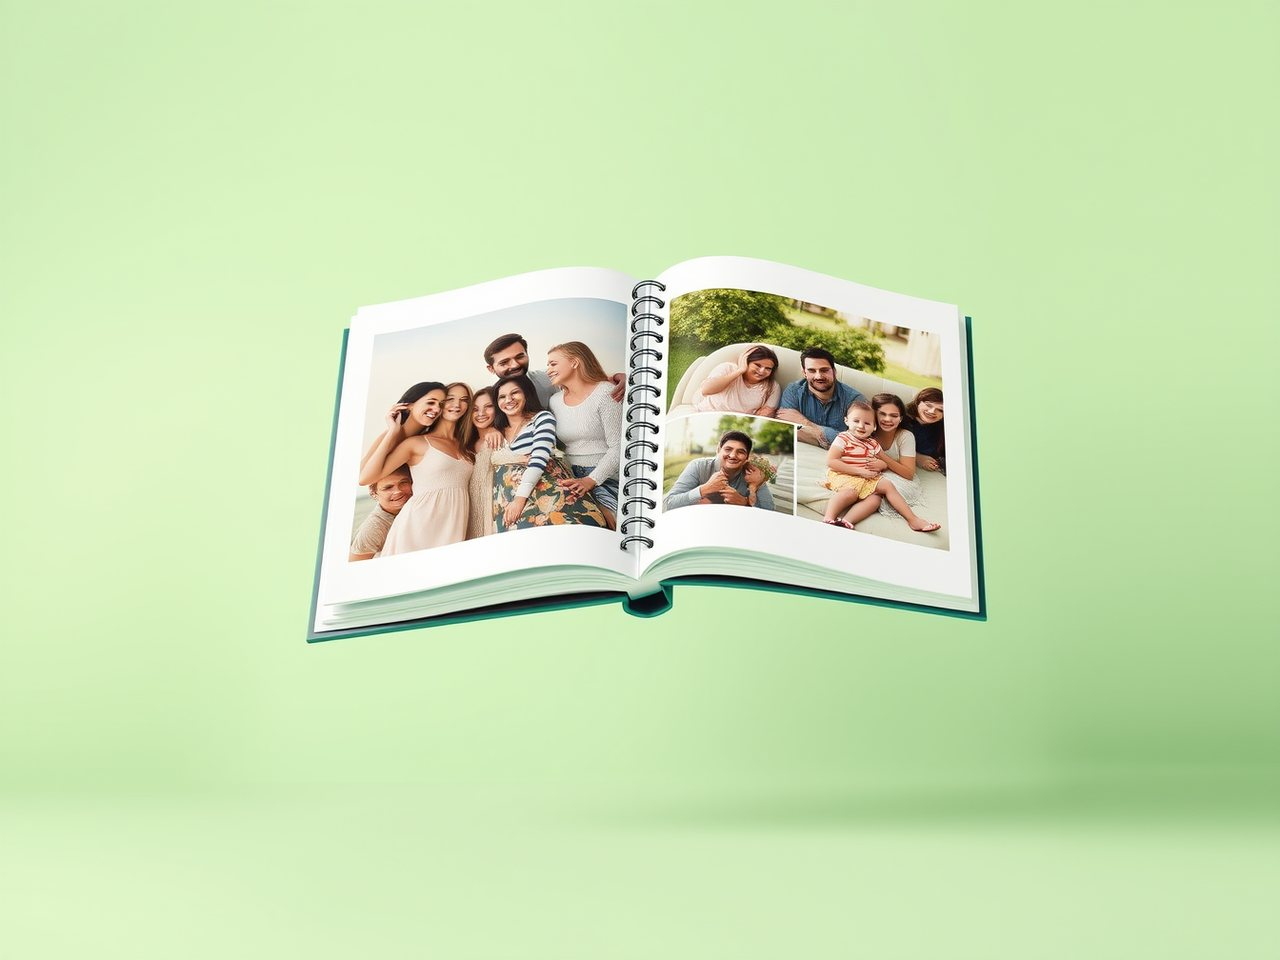
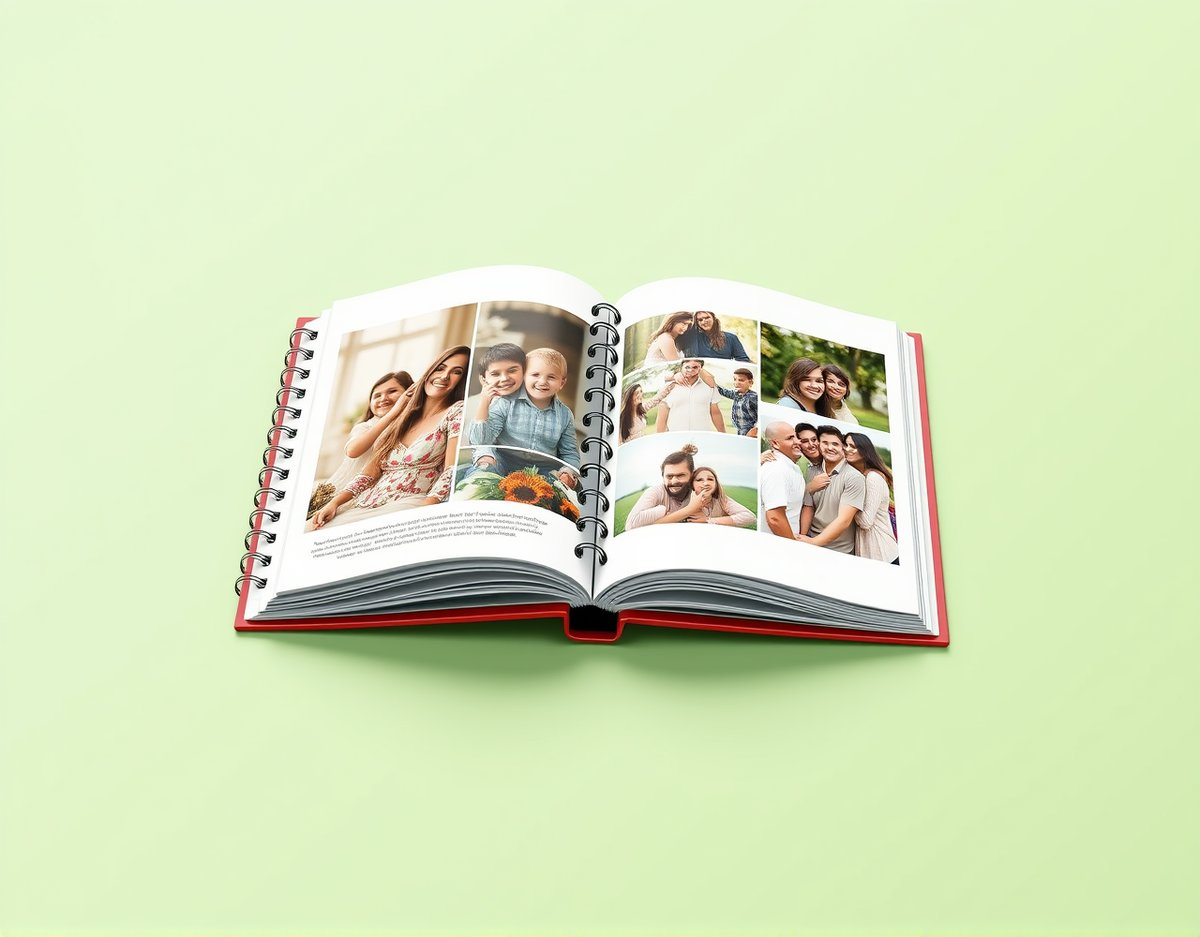
Clone polish: gradient-matched hero product (seamless), 2-line headline, demoted price anchor, single-box wordmark, vivid diagonal gradient

diff --git a/css/style.css b/css/style.css
@@ -16,8 +16,8 @@
   --blue: #005B8E;
   --blue-dark: #00456C;
   --navy: #0E3E59;
-  --grad-a: #A9D6D9;
-  --grad-b: #D8EA80;
+  --grad-a: #9FD0D5;
+  --grad-b: #CFE468;
   --stroke: #8FD0E0;
   --green: #00A651;
   --ease-out: cubic-bezier(0.23, 1, 0.32, 1);
@@ -73,7 +73,7 @@ ul { margin: 0; padding: 0; list-style: none; }
 .util { background: var(--navy); color: #D6E3EA; font-size: 13px; }
 .util-inner { display: flex; align-items: center; gap: 18px; height: 38px; }
 .util-note { margin: 0 auto; text-align: center; color: #B8CBD6; }
-.util-phone { color: #fff; font-weight: 650; margin-left: auto; white-space: nowrap; }
+.util-phone { color: #fff; font-weight: 700; margin-left: auto; white-space: nowrap; }
 .util-phone:hover { text-decoration: underline; }
 .lang-light .seg { color: #9FB6C3; }
 .lang-light .seg + .seg { border-left-color: rgba(255,255,255,.25); }
@@ -98,7 +98,7 @@ ul { margin: 0; padding: 0; list-style: none; }
 .brand-sub { color: var(--ink); font-size: 15px; font-weight: 600; }
 .nav-links { display: flex; gap: 20px; margin-left: 14px; }
 .nav-links a { color: var(--ink-soft); font-size: 14.5px; font-weight: 600; padding: 4px 0; transition: color 200ms ease; }
-.nav-links a:hover { color: var(--blue); }
+.nav-links a:hover { color: var(--blue); text-decoration: underline; text-underline-offset: 5px; }
 .nav-cta { margin-left: auto; }
 .nav-burger { display: none; margin-left: auto; background: none; border: 0; width: 40px; height: 40px; cursor: pointer; flex-direction: column; align-items: center; justify-content: center; gap: 5px; }
 .nav-burger span { width: 20px; height: 2px; background: var(--ink); border-radius: 2px; transition: transform 200ms var(--ease-out), opacity 200ms ease; }
@@ -114,22 +114,23 @@ ul { margin: 0; padding: 0; list-style: none; }
 .hero { padding: 28px 0 0; }
 .hero-banner {
   display: grid; grid-template-columns: 1.25fr 0.75fr; gap: 24px; align-items: center;
-  background: linear-gradient(115deg, var(--grad-a) 0%, var(--grad-b) 100%);
+  background: linear-gradient(120deg, var(--grad-a) 0%, var(--grad-b) 100%);
   border-radius: 22px; padding: 46px 52px 46px 56px; position: relative; overflow: hidden;
 }
 .hero-kicker { font-size: 13px; font-weight: 700; letter-spacing: 0.14em; text-transform: uppercase; color: var(--navy); margin-bottom: 12px; }
-.hero-title { font-size: clamp(38px, 4.6vw, 62px); font-weight: 800; line-height: 1.02; letter-spacing: -0.02em; }
-.hero-title .t-fill { display: block; color: var(--blue); }
-.hero-title .t-outline {
-  display: block; color: var(--blue);
+.hero-title { font-size: clamp(32px, 3.6vw, 50px); font-weight: 780; line-height: 1.06; letter-spacing: -0.03em; }
+.hero-title .t-fill { color: var(--blue); }
+.t-block { display: block; }
+.t-line { display: block; }
+.hero-title .t-outline { color: var(--blue);
   -webkit-text-stroke: 2.5px var(--stroke);
   paint-order: fill; text-shadow: 0 3px 0 rgba(0,60,100,.08);
 }
 .hero-sub { margin-top: 16px; font-size: 16.5px; color: #33505E; max-width: 46ch; font-weight: 500; }
-.hero-cta-row { display: flex; align-items: center; gap: 22px; margin-top: 24px; flex-wrap: wrap; }
-.hero-price { font-weight: 800; font-size: 15px; color: var(--red); }
-.hero-product { margin: 0; }
-.hero-product img { width: 100%; border-radius: 16px; box-shadow: 0 26px 50px -20px rgba(14,62,89,.45); }
+.hero-cta-row { display: flex; flex-direction: column; align-items: flex-start; gap: 6px; margin-top: 24px; }
+.hero-price-under { font-weight: 650; font-size: 14px; color: var(--blue); margin-left: 4px; }
+.hero-product { margin: 0; background: linear-gradient(120deg, #9FD0D5, #CFE468); }
+.hero-product img { width: 100%; display: block; }
 .hero-strip { text-align: center; font-size: 13px; font-weight: 600; color: var(--ink-soft); padding: 13px 0; border-bottom: 1px solid var(--gray-line); }
 
 /* ── sections ────────────────────────────────────────── */

diff --git a/index.html b/index.html
@@ -26,8 +26,7 @@
 <header class="nav" id="nav">
   <div class="wrap nav-inner">
     <a class="brand" href="#top" aria-label="Feven's Prints home">
-      <span class="brand-box">feven's</span>
-      <span class="brand-sub" data-en="prints" data-am="ህትመቶች">prints</span>
+      <span class="brand-box">Feven's Prints</span>
     </a>
     <nav class="nav-links" aria-label="Primary">
       <a href="#range" data-en="Photo books" data-am="የፎቶ መጽሐፍ">Photo books</a>
@@ -65,11 +64,11 @@
     <div class="hero-banner">
       <div class="hero-copy">
         <p class="hero-kicker" data-en="Feven's Prints · Addis Ababa" data-am="የፌቨን ህትመቶች · አዲስ አበባ">Feven's Prints · Addis Ababa</p>
-        <h1 class="hero-title"><span class="t-fill" data-en="Your memories," data-am="ትውስታዎችዎ፣">Your memories,</span><span class="t-outline" data-en="beautifully" data-am="በሚያማምር">beautifully</span><span class="t-fill" data-en="printed." data-am="ህትመት።">printed.</span></h1>
+        <h1 class="hero-title"><span class="t-fill t-block" data-en="Your memories," data-am="ትውስታዎችዎ፣">Your memories,</span><span class="t-line"><span class="t-outline" data-en="beautifully" data-am="በሚያማምር">beautifully</span> <span class="t-fill" data-en="printed." data-am="ህትመት።">printed.</span></span></h1>
         <p class="hero-sub" data-en="Photo books, canvas prints, gifts and more. Premium quality, printed the same day." data-am="የፎቶ መጽሐፍ፣ ካንቫስ፣ ስጦታዎች እና ሌሎችም። ከፍተኛ ጥራት፣ በዚያው ቀን የሚዘጋጁ።">Photo books, canvas prints, gifts and more. Premium quality, printed the same day.</p>
         <div class="hero-cta-row">
           <a class="btn btn-red" href="tel:+251911729779" data-en="Order now" data-am="አሁን ይዘዙ">Order now</a>
-          <span class="hero-price" data-en="Photo book from 1,800 ETB" data-am="የፎቶ መጽሐፍ ከ1,800 ብር ጀምሮ">Photo book from 1,800 ETB</span>
+          <span class="hero-price-under" data-en="Photo book from 1,800 ETB" data-am="የፎቶ መጽሐፍ ከ1,800 ብር ጀምሮ">Photo book from 1,800 ETB</span>
         </div>
       </div>
       <figure class="hero-product">
